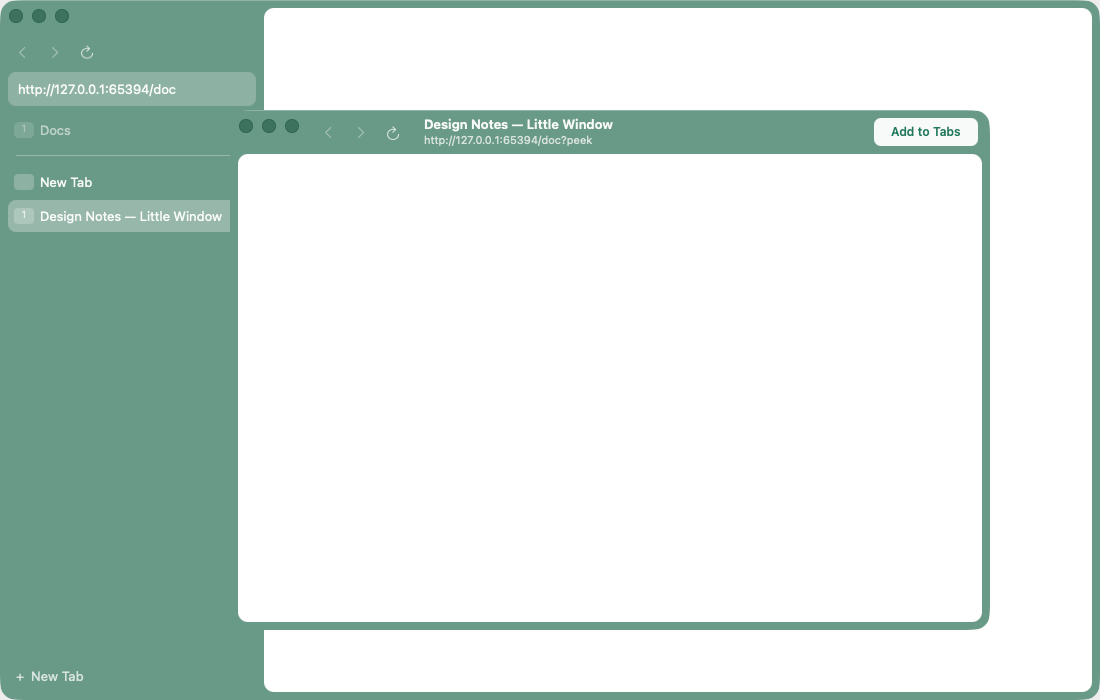
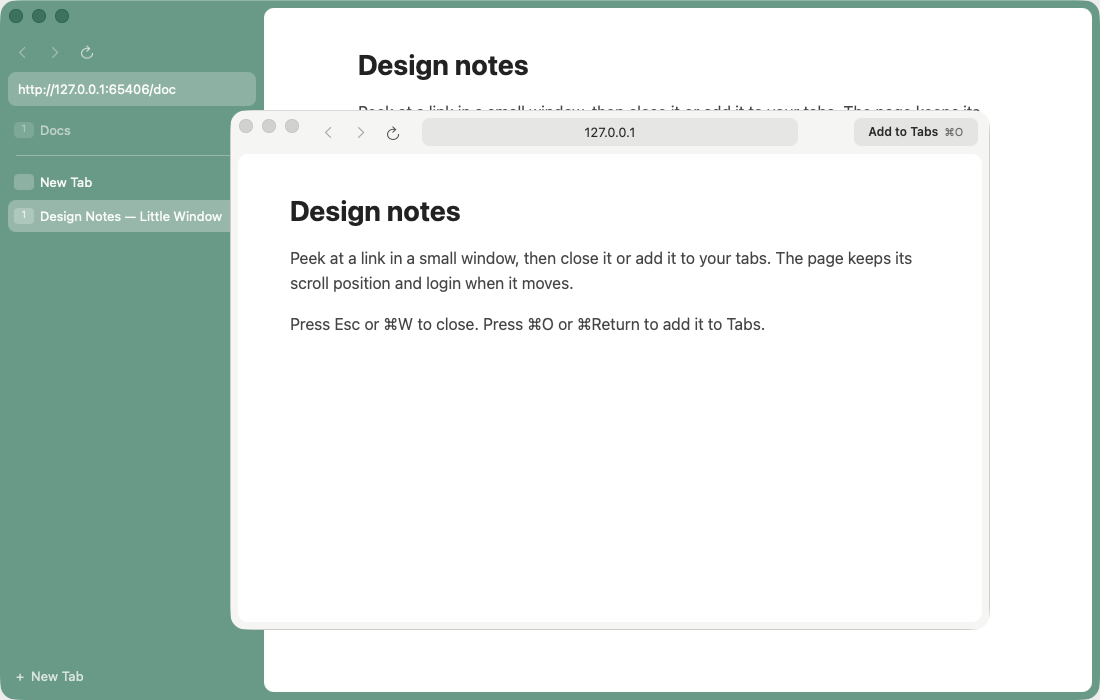
Little 視窗改為白色色調（仿 Arc 的 Little Arc）
外框與工具列改淺白，中央加淺灰網域膠囊（純文字，標題與完整網址放 toolTip），
右側「Add to Tabs ⌘O」淺色底深色文字，圖示深灰，視窗加淡邊線；顏色集中在 Theme.little*，
主視窗綠色不動，行為與快捷鍵不變。smoke 同步更新（305/305），重拍疊在主視窗上的截圖。

diff --git a/Sources/Larch/LittleWindow.swift b/Sources/Larch/LittleWindow.swift
@@ -31,7 +31,7 @@ final class LittleWindow: LarchWindow {
     }
 }
 
-/// Little 視窗內容：上方 44px 工具列（在鼠尾草綠外框上）+ 圓角網頁卡片。工具列空白處可拖曳視窗。
+/// Little 視窗內容：上方 44px 工具列（淺白外框，與主視窗的綠色區分）+ 圓角網頁卡片。工具列空白處可拖曳視窗。
 @MainActor
 final class LittleRootView: NSView {
     static let toolbarHeight: CGFloat = 44
@@ -40,35 +40,42 @@ final class LittleRootView: NSView {
     let backButton = LittleRootView.iconButton("chevron.left", "Back (⌘[)")
     let forwardButton = LittleRootView.iconButton("chevron.right", "Forward (⌘])")
     let reloadButton = LittleRootView.iconButton("arrow.clockwise", "Reload (⌘R)")
-    let titleLabel = NSTextField(labelWithString: "")
+    /// 中央的網址膠囊：只顯示網域（純文字）；完整標題與網址放在 toolTip。
+    let pill = NSView()
     let urlLabel = NSTextField(labelWithString: "")
     let addButton = NSButton()
     private let toolbar = FlippedView()
 
     override var mouseDownCanMoveWindow: Bool { true }
     var toolbarHeightForTest: CGFloat { toolbar.frame.height }
+    var pillText: String { urlLabel.stringValue }
+    var pillToolTip: String { pill.toolTip ?? "" }
 
     init() {
         super.init(frame: .zero)
         wantsLayer = true
-        layer?.backgroundColor = Theme.panel.cgColor
-        titleLabel.font = .systemFont(ofSize: 13, weight: .semibold)
-        titleLabel.textColor = Theme.text
-        urlLabel.font = .systemFont(ofSize: 11)
-        urlLabel.textColor = Theme.muted
-        for l in [titleLabel, urlLabel] {
-            l.lineBreakMode = .byTruncatingMiddle
-            l.cell?.usesSingleLineMode = true
-        }
-        addButton.title = "Add to Tabs"
+        layer?.backgroundColor = Theme.littleFrame.cgColor
+        layer?.borderWidth = 1
+        layer?.borderColor = Theme.littleBorder.cgColor
+        pill.wantsLayer = true
+        pill.layer?.backgroundColor = Theme.littlePill.cgColor
+        pill.layer?.cornerRadius = 8
+        urlLabel.font = .systemFont(ofSize: 13)
+        urlLabel.textColor = Theme.littleToolbarText
+        urlLabel.alignment = .center
+        urlLabel.lineBreakMode = .byTruncatingMiddle
+        urlLabel.cell?.usesSingleLineMode = true
+        pill.addSubview(urlLabel)
         addButton.isBordered = false
         addButton.wantsLayer = true
-        addButton.layer?.backgroundColor = NSColor(white: 1, alpha: 0.95).cgColor
+        addButton.layer?.backgroundColor = Theme.littleButton.cgColor
         addButton.layer?.cornerRadius = 7
-        addButton.attributedTitle = NSAttributedString(string: "Add to Tabs", attributes: [
-            .font: NSFont.systemFont(ofSize: 12, weight: .semibold), .foregroundColor: Theme.progress])
+        let t = NSMutableAttributedString(string: "Add to Tabs", attributes: [
+            .font: NSFont.systemFont(ofSize: 12, weight: .semibold), .foregroundColor: Theme.littleToolbarText])
+        t.append(NSAttributedString(string: "  ⌘O", attributes: [.font: NSFont.systemFont(ofSize: 11), .foregroundColor: Theme.littleMuted]))
+        addButton.attributedTitle = t
         addButton.toolTip = "Add to Tabs (⌘O / ⌘↩)"
-        for v in [backButton, forwardButton, reloadButton, titleLabel, urlLabel, addButton] { toolbar.addSubview(v) }
+        for v in [backButton, forwardButton, reloadButton, pill, addButton] { toolbar.addSubview(v) }
         addSubview(toolbar)
         addSubview(card)
     }
@@ -85,12 +92,12 @@ final class LittleRootView: NSView {
             b.frame = NSRect(x: x, y: (h - 28) / 2, width: 30, height: 28)
             x += 32
         }
-        let addW: CGFloat = 104
+        let addW: CGFloat = 124
         addButton.frame = NSRect(x: bounds.width - addW - 12, y: (h - 28) / 2, width: addW, height: 28)
-        let tx = x + 12
-        let tw = max(40, addButton.frame.minX - 12 - tx)
-        titleLabel.frame = NSRect(x: tx, y: 6, width: tw, height: 17)
-        urlLabel.frame = NSRect(x: tx, y: 23, width: tw, height: 15)
+        // 膠囊置中於視窗，但不壓到左右的按鈕。
+        let maxW = max(60, min(440, 2 * (min(bounds.midX - x - 12, addButton.frame.minX - bounds.midX - 12))))
+        pill.frame = NSRect(x: bounds.midX - maxW / 2, y: (h - 28) / 2, width: maxW, height: 28)
+        urlLabel.frame = NSRect(x: 10, y: (28 - 17) / 2, width: maxW - 20, height: 17)
     }
 
     /// 載入中重新整理鈕換成停止。
@@ -103,7 +110,7 @@ final class LittleRootView: NSView {
         let b = NSButton()
         b.image = NSImage(systemSymbolName: symbol, accessibilityDescription: label)
         b.isBordered = false
-        b.contentTintColor = Theme.muted
+        b.contentTintColor = Theme.littleIcon
         b.toolTip = label
         return b
     }
@@ -136,7 +143,7 @@ final class LittleWindowController: NSObject, NSWindowDelegate {
         window.titleVisibility = .hidden
         window.isMovableByWindowBackground = true
         window.appearance = NSAppearance(named: .aqua)
-        window.backgroundColor = Theme.panel
+        window.backgroundColor = Theme.littleFrame
         window.minSize = NSSize(width: 520, height: 360)
         window.contentView = root
         window.delegate = self
@@ -169,8 +176,9 @@ final class LittleWindowController: NSObject, NSWindowDelegate {
     var isClosed: Bool { closed }
 
     private func sync() {
-        root.titleLabel.stringValue = tab.displayTitle
-        root.urlLabel.stringValue = tab.displayURL?.absoluteString ?? ""
+        let url = tab.displayURL
+        root.urlLabel.stringValue = url?.host ?? url?.absoluteString ?? ""
+        root.pill.toolTip = [tab.displayTitle, url?.absoluteString ?? ""].filter { !$0.isEmpty }.joined(separator: "\n")
         root.backButton.isEnabled = tab.webView.canGoBack
         root.forwardButton.isEnabled = tab.webView.canGoForward
         root.setLoading(tab.isLoading)

diff --git a/Sources/Larch/Smoke.swift b/Sources/Larch/Smoke.swift
@@ -1290,10 +1290,10 @@ extension Smoke {
         let l1 = c.openLittle(server.url("/b"))!
         check("開出 Little：不進主視窗 Tab 清單、視窗可見", c.littles.count == 1 && !tm.tabs.contains { $0 === l1.tab } && l1.window.isVisible)
         check("同網址 300ms 內重複開啟被忽略", c.openLittle(server.url("/b")) == nil && c.littles.count == 1)
-        check("Little 載入頁面並顯示純文字標題與網址", await wait { l1.tab.pageTitle == "Page B" && l1.root.titleLabel.stringValue == "Page B" && l1.root.urlLabel.stringValue == server.url("/b").absoluteString })
+        check("Little 網址膠囊顯示網域（純文字），標題與完整網址在提示", await wait { l1.tab.pageTitle == "Page B" && l1.root.pillText == "127.0.0.1" && l1.root.pillToolTip == "Page B\n" + server.url("/b").absoluteString })
         check("Little 的瀏覽寫進歷史", c.tabs.history?.entries.contains { $0.url == server.url("/b").absoluteString } == true)
         check("焦點交給網頁", l1.window.firstResponder === l1.tab.webView)
-        check("視窗為 Larch 外框風格（鼠尾草綠底、卡片、紅綠燈）", l1.window.backgroundColor == Theme.panel && l1.root.card.superview === l1.root && !l1.window.styleMask.isEmpty)
+        check("Little 為白色色調（與主視窗的綠色區分）、卡片在外框內", l1.window.backgroundColor == Theme.littleFrame && l1.window.backgroundColor != Theme.panel && c.window.backgroundColor == Theme.panel && l1.root.card.superview === l1.root && !l1.window.styleMask.isEmpty)
 
         // 版面與拖曳區域
         l1.root.layoutSubtreeIfNeeded()
@@ -1397,7 +1397,7 @@ extension Smoke {
         check("Little 內 target=_blank 就地開啟（不新增 Tab 或 Little）", await wait { lp.tab.pageTitle == "Page B" } && tm.tabs.count == tabsBefore && c.littles.count == 1)
         lp.close()
         let lx = c.openLittle(server.url("/xss"))!
-        check("Little 標題當純文字", await wait { lx.root.titleLabel.stringValue.hasPrefix("<img") })
+        check("Little 標題當純文字（提示文字原樣）", await wait { lx.root.pillToolTip.hasPrefix("<img") })
         lx.close()
         let tmp = try FixtureServer()
         await tmp.start()

diff --git a/Sources/Larch/Theme.swift b/Sources/Larch/Theme.swift
@@ -30,3 +30,14 @@ extension Theme {
     // 載入進度條：亮色卡片上要看得清楚，比 panel 深的綠。
     static let progress = NSColor(srgbRed: 0x1F / 255, green: 0x7A / 255, blue: 0x5C / 255, alpha: 1)
 }
+
+extension Theme {
+    // Little 視窗：白色色調，與主視窗的鼠尾草綠一眼區分（仿 Arc 的 Little Arc）。
+    static let littleFrame = NSColor(srgbRed: 0xF5 / 255, green: 0xF5 / 255, blue: 0xF3 / 255, alpha: 1)
+    static let littleBorder = NSColor(white: 0, alpha: 0.18)
+    static let littleToolbarText = NSColor(white: 0.16, alpha: 1)
+    static let littleMuted = NSColor(white: 0.42, alpha: 1)
+    static let littleIcon = NSColor(white: 0.32, alpha: 1)
+    static let littlePill = NSColor(white: 0, alpha: 0.07)
+    static let littleButton = NSColor(white: 0, alpha: 0.08)
+}
